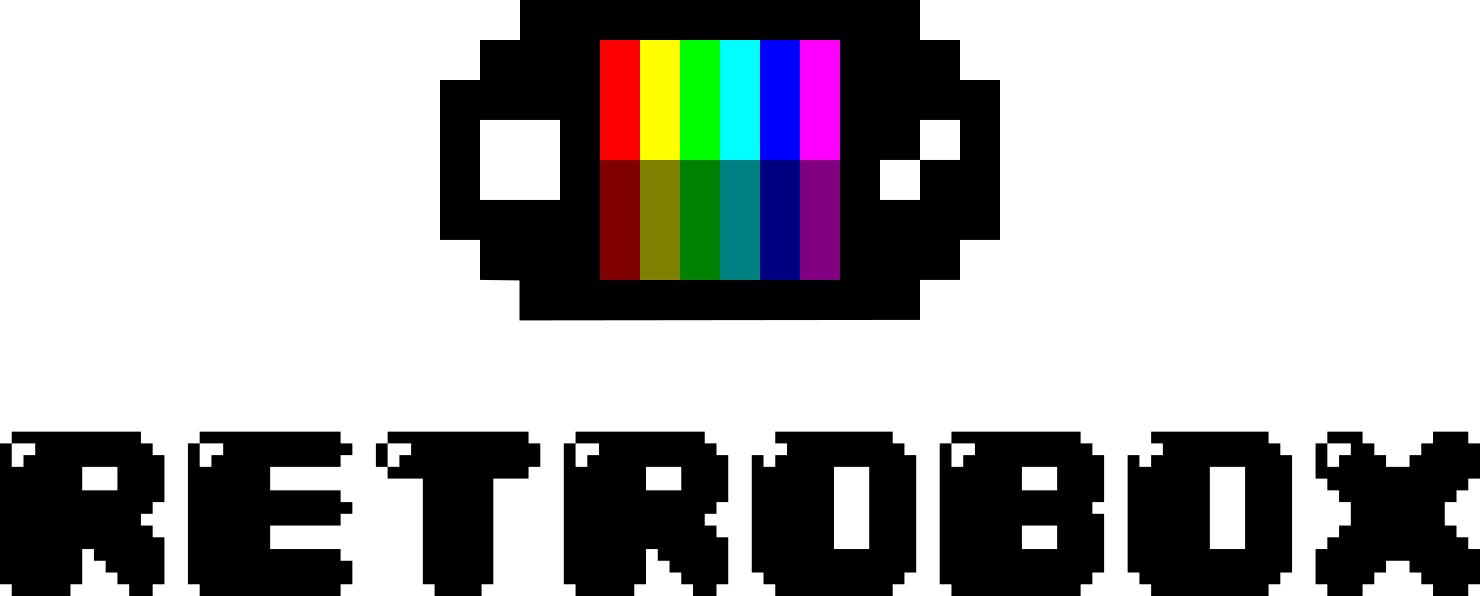
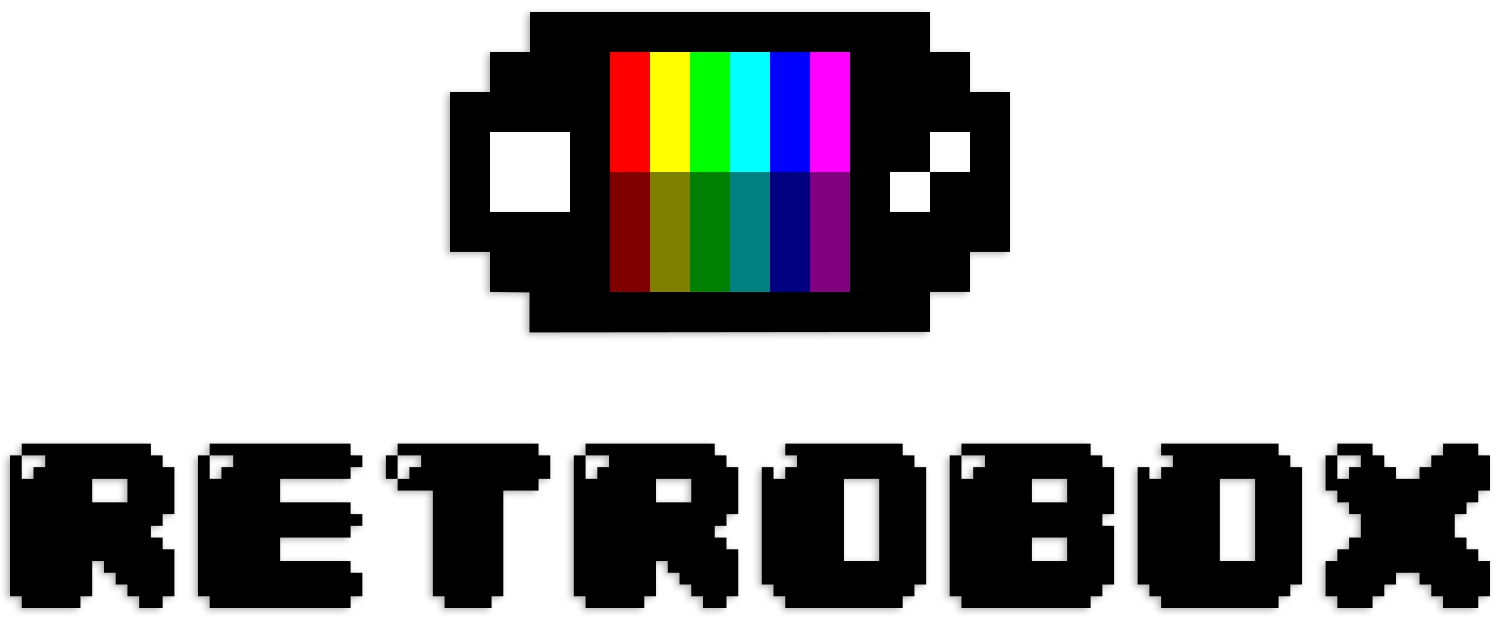
Dark Website
(for my eyes tonight)

diff --git a/src/assets/styles/layouts/_header.scss b/src/assets/styles/layouts/_header.scss
@@ -18,12 +18,12 @@ $opacity: 0.8;
       }
 
       a, .button {
-        color: rgba(34, 47, 62, 0.7) !important;
+        color: #e0e0e0 !important;
         font-weight: 200;
       }
       a:hover, .button:hover {
         transition: color 0.1s ease-in-out;
-        color: rgba(34, 47, 62, 1) !important;
+        color: #9e9e9e !important;
       }
       .locale_selection {
         padding-left: 5px;
@@ -31,7 +31,7 @@ $opacity: 0.8;
       .account {
         a:first-of-type {
           padding-right: 1.2em;
-          border-right: 1px solid rgba(87, 101, 116, 0.5);
+          border-right: 1px solid #e0e0e0;
         }
         a:last-of-type {
           padding-left: 1.2em;
@@ -53,7 +53,7 @@ $opacity: 0.8;
     }
   }
   .header-background-back {
-    background: rgba(236, 240, 241, 0.8) url("../../assets/img/back.jpg");
+    background: #212121 url("../../assets/img/back.jpg");
     background-size: cover;
     height: 84px;
   }
@@ -65,7 +65,7 @@ $opacity: 0.8;
   }
   .header-content {
     a {
-      color: #ecf0f1;
+      color: #e0e0e0;
       text-decoration: none;
     }
     a:hover {
@@ -146,7 +146,7 @@ $opacity: 0.8;
     padding-bottom: 1em;
     width: 100%;
     color: white;
-    background-color: rgba(52, 73, 94, 1);
+    background-color: #212121;
 
     .container {
       justify-content: space-between;

diff --git a/src/assets/styles/layouts/_landing.scss b/src/assets/styles/layouts/_landing.scss
@@ -108,7 +108,7 @@ Landing columns
         justify-content: center;
         width: 50px;
         height: 50px;
-        background-color: #2c3e50;
+        background-color: #e53935;
         border-radius: 50%;
         padding: 10px 10px 10px 10px;
       }
@@ -122,10 +122,10 @@ Landing columns
       margin-bottom: 20px;
       margin-right: 20px;
       max-width: 23rem;
-      background-color: white;
+      background-color: #455a64;
       padding-top: 5px;
       .title {
-        color: #22292F;
+        color: white;
       }
     }
   }
@@ -168,11 +168,11 @@ landing start **/
 .landing-startnow-content {
   margin-top: 2em;
   .type-kited .landing-column-icon div {
-    background-color: #27ae60;
+    background-color: #0d47a1;
   }
 
   .type-already .landing-column-icon div {
-    background-color: #2980b9;
+    background-color: #ec407a;
   }
 
   .landing-column-footer {
@@ -190,7 +190,7 @@ landing start **/
 }
 
 .landing-startnow-title {
-  color: #2c3e50;
+  color: white;
   text-align: center;
 }
 

diff --git a/src/assets/styles/layouts/_footer.scss b/src/assets/styles/layouts/_footer.scss
@@ -3,10 +3,10 @@
   .footer-content {
     padding-top: 3em;
     padding-bottom: 8em;
-    background-color: white;
+    background-color: #212121;
     a {
       text-decoration: none;
-      color: #2c3e50;
+      color: #ecf0f1;
       transition: color 0.2s ease-in-out;
     }
     a:hover {
@@ -57,7 +57,7 @@
   }
 
   .footer-content-bottom {
-    background-color: #34495e;
+    background-color: #455a64;
     padding-top: 2em;
     padding-bottom: 2em;
     a {

diff --git a/src/assets/styles/layouts/_body.scss b/src/assets/styles/layouts/_body.scss
@@ -4,4 +4,5 @@ body,
 }
 body {
   margin-bottom: -20px;
+  background-color: #212121;
 }
